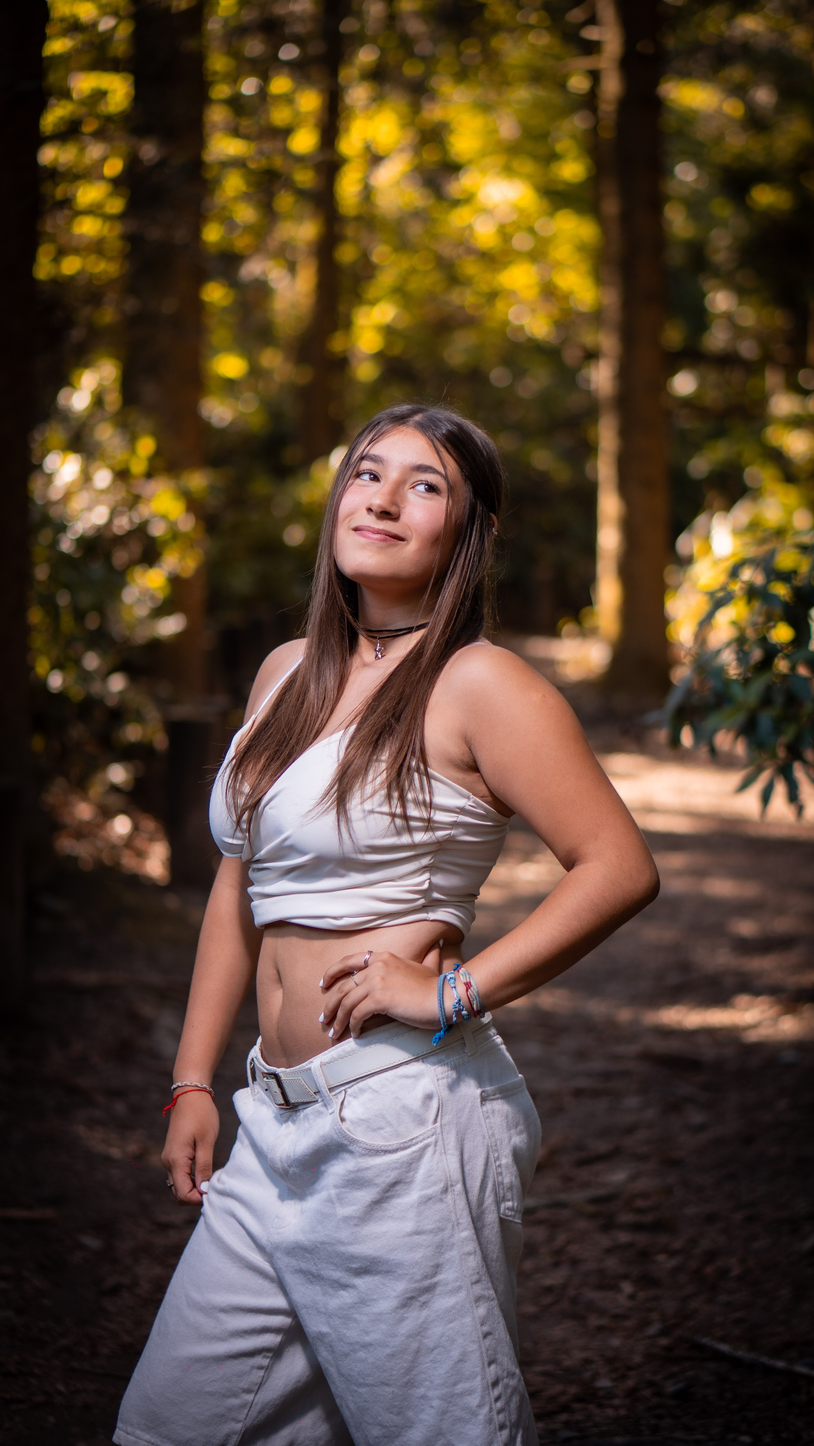
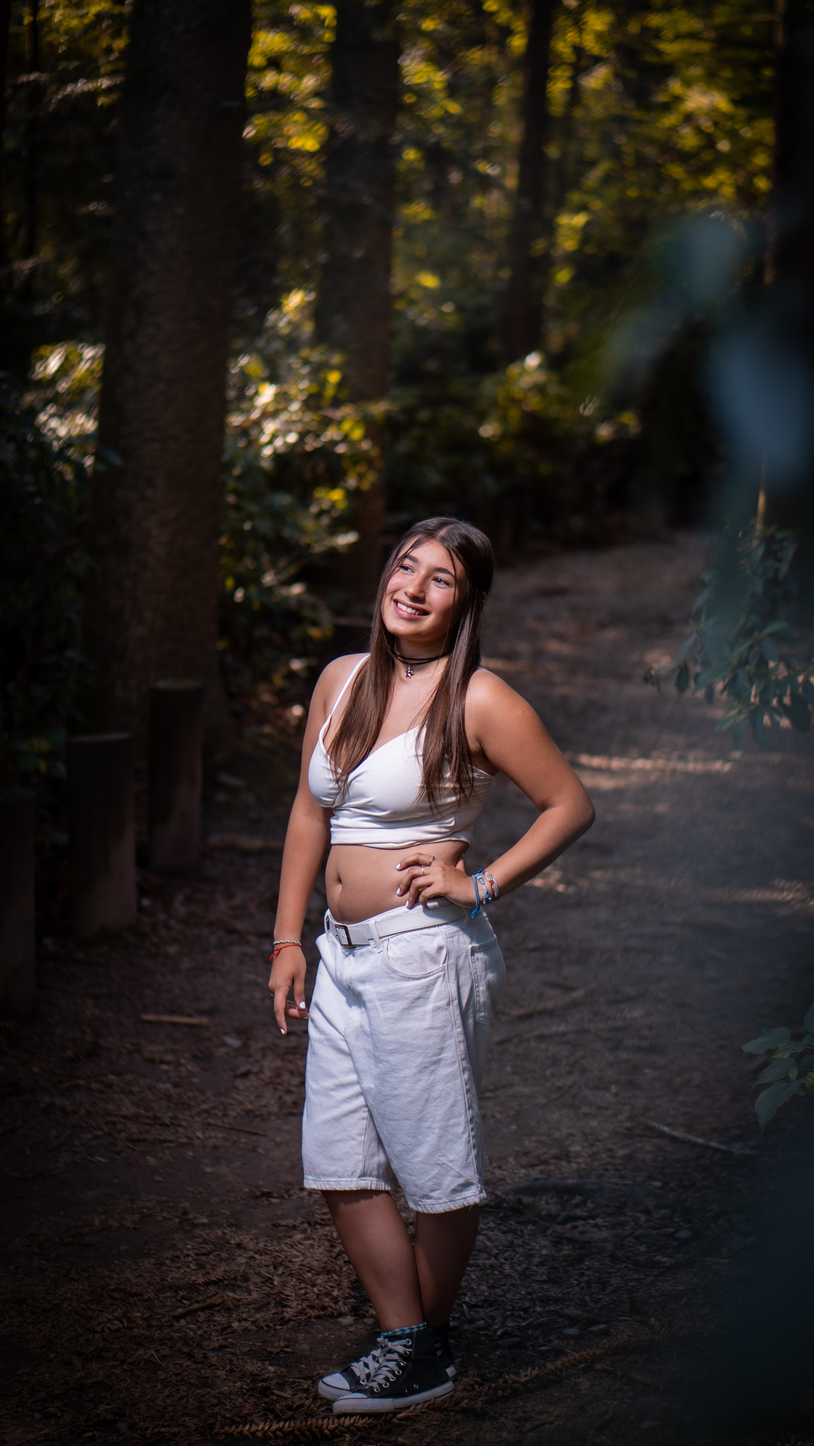
Agregué foto final e hice últimas modificaciones generales

diff --git a/index.html b/index.html
@@ -49,7 +49,7 @@
         <section class="tarjeta-portada">
         
          <figure class="marco-foto">
-                <img src="img/sesion10.jpg" alt="Foto de sesión de las Mellis en exteriores" class="foto-tarjeta">
+                <img src="img/sesion1.jpg" alt="Foto de sesión de las Mellis en exteriores" class="foto-tarjeta">
          </figure>
 
          <article class="info-tarjeta">
@@ -143,31 +143,19 @@
 
                     <li class="slide">
                         <figure>
-                            <img src="img/sesion20.jpg" alt="Sesión de fotos 2" loading="lazy">
+                            <img src="img/sesion3.jpg" alt="Sesión de fotos 2" loading="lazy">
                         </figure>
                     </li>
 
                     <li class="slide">
                         <figure>
-                            <img src="img/sesion5.jpg" alt="Sesión de fotos 3" loading="lazy">
+                            <img src="img/sesion4.jpg" alt="Sesión de fotos 3" loading="lazy">
                         </figure>
                     </li>
 
                     <li class="slide">
                         <figure>
-                            <img src="img/sesion18.jpg" alt="Sesión de fotos 4" loading="lazy">
-                        </figure>
-                    </li>
-
-                    <li class="slide">
-                        <figure>
-                            <img src="img/sesion8.jpg" alt="Sesión de fotos 4" loading="lazy">
-                        </figure>
-                    </li>
-
-                    <li class="slide">
-                        <figure>
-                            <img src="img/sesion14.jpg" alt="Sesión de fotos 4" loading="lazy">
+                            <img src="img/sesion5.jpg" alt="Sesión de fotos 4" loading="lazy">
                         </figure>
                     </li>
 
@@ -179,7 +167,19 @@
 
                     <li class="slide">
                         <figure>
-                            <img src="img/sesion20.jpg" alt="Sesión de fotos 4" loading="lazy">
+                            <img src="img/sesion7.jpg" alt="Sesión de fotos 4" loading="lazy">
+                        </figure>
+                    </li>
+
+                    <li class="slide">
+                        <figure>
+                            <img src="img/sesion8.jpg" alt="Sesión de fotos 4" loading="lazy">
+                        </figure>
+                    </li>
+
+                    <li class="slide">
+                        <figure>
+                            <img src="img/sesion9.jpg" alt="Sesión de fotos 4" loading="lazy">
                         </figure>
                     </li>
                 </ul>
@@ -191,9 +191,9 @@
             </article>
      </section>
 
-     <!----- secciones alternadas dresscode, link drive fotos, formulario de confirmación y link spotify ----->
+     <!----- secciones alternadas -----> 
      <section class="contenedor-info-vertical">
-
+            <!----- dresscode ----->
             <article class="bloque-info estilo-oscuro">
                 <div class="icono-animado-container">
                     <i class="fas fa-user-tie icono-swing color-blanco"></i>
@@ -204,6 +204,7 @@
                 <p class="nota-dresscode">EL COLOR <strong>BLANCO</strong> SE RESERVA <br> PARA LAS QUINCEAÑERAS</p>
             </article>
 
+            <!----- link drive fotos ----->
             <article class="bloque-info estilo-claro">
                 <div class="icono-animado-container">
                     <i class="fas fa-camera icono-flash color-verde"></i>
@@ -216,6 +217,7 @@
                 </a>
             </article>
 
+            <!----- formulario de confirmación ----->
             <article class="bloque-info estilo-oscuro">
                 <div class="icono-animado-container">
                     <i class="fas fa-envelope-open-text icono-bouncing color-blanco"></i>
@@ -257,6 +259,7 @@
 
             </article>
 
+            <!----- link spotify ----->
             <article class="bloque-info estilo-claro">
         
                 <div class="icono-animado-container">
@@ -275,9 +278,9 @@
             </article>
      </section>
 
-     <!----- algo con imagenes  ----->
-     <section class="">
-
+     <!----- ultima imagen  ----->
+     <section class="seccion-imagen">
+        <figure><img src="img/sesion10.jpg" alt=""></figure>
      </section>
 
      <!----- seccion "te esperamos"  ----->
@@ -291,7 +294,7 @@
     
      <!----- franja de color final  ----->
      <footer class="footer-simple">
-           <p>XV Años | 20.03.2025</p>
+           <p>XV Años | 20.03.2026</p>
      </footer>
 
     </main>

diff --git a/css/estilo1.css b/css/estilo1.css
@@ -45,7 +45,7 @@
 #seccion-primera-pagina{
     text-align: center;
     font-family: var(--fuente-principal);
-    color: var(--color-principal-claro);
+    color: var(--color-principal-oscuro);
     opacity: 0; 
     /* Nombre | Duración | Curva | Mantener final */
     animation: subirAparecer 1s ease-out forwards;
@@ -72,13 +72,16 @@
     letter-spacing: 1px;       
     text-decoration: none;
     border-radius: 50px;
+    font-size: 1em;
 
-    padding: 0.7em;
-    margin-top: 0.7em;
+    padding: 0.8em;
+    padding-left: 3em;
+    padding-right: 3em;
+    margin-top: 1em;
 
     display: inline-block; 
     cursor: pointer;           /* Manito al pasar el mouse */
-    box-shadow: 0 4px 15px rgba(32, 108, 148, 0.4);
+    box-shadow: 0 4px 15px rgba(127, 151, 110, 0.4);
     transition: all 0.3s ease;
 }
 
@@ -121,14 +124,14 @@
 }
 
 .estilo-boton-float {
-    width: 50px;
-    height: 50px;
+    width: 65px;
+    height: 65px;
     border-radius: 50%;
     background-color: var(--color-principal-oscuro);
     color: white;
     border: none;
-    box-shadow: 0 4px 10px rgba(0,0,0,0.3);
-    font-size: 20px;
+    box-shadow: 0 4px 10px rgba(0,0,0,0.5) !important;
+    font-size: 28px;
     cursor: pointer;
     display: flex;
     justify-content: center;
@@ -651,11 +654,27 @@
     80% { transform: rotate(-5deg); }
     100% { transform: rotate(0deg); }
 }
-/* (La animación 'rebote' para el mail ya la tenías definida antes, así que se reutiliza sola) */
 
 
-/* --- ESTILOS DEL FORMULARIO INTEGRADO --- */
+/* --- RESPONSIVE PC (Ajustes de espacio) --- */
+@media (min-width: 1000px) {
+    .contenedor-info-vertical .bloque-info {
+        padding: 100px 0; /* Más aire arriba y abajo en PC */
+    }
+    
+    .contenedor-info-vertical{
+        /* Eje-X | Eje-Y | Difuminado | Color con 30% de opacidad */
+        box-shadow: 0px -5px 15px rgba(0, 0, 0, 0.3);
+    }
 
+    .texto-detalle {
+        font-size: 1.2rem;
+    }
+}
+
+
+
+/* ------------------------------ formulario de confirmación ------------------------------ */
 .formulario-rsvp {
     width: 100%;
     max-width: 500px; /* Ancho máximo elegante */
@@ -719,39 +738,16 @@
     padding: 15px;
 }
 
-/* --- RESPONSIVE PC (Ajustes de espacio) --- */
-@media (min-width: 1024px) {
-    .contenedor-info-vertical .bloque-info {
-        padding: 100px 0; /* Más aire arriba y abajo en PC */
-    }
-    
-    .texto-detalle {
-        font-size: 1.2rem;
-    }
+
+
+
+/* ------------------------------ ultima imagen ------------------------------ */
+.seccion-imagen img {
+    width: 100%; 
+    height: 60vh; 
+    object-fit: cover;
+    display: block;
 }
-
-
-
-
-
-@media (min-width: 1000px){
-    .contenedor-info-vertical{
-        /* Eje-X | Eje-Y | Difuminado | Color con 30% de opacidad */
-        box-shadow: 0px -5px 15px rgba(0, 0, 0, 0.3);
-    }
-}
-
-
-
-/* ------------------------------ formulario de confirmación ------------------------------ */
-
-
-
-
-
-/* ------------------------------ algo con imagenes ------------------------------ */
-
-
 
 
 
@@ -766,13 +762,14 @@
     font-family: var(--fuente-principal);
     font-size: 2rem;
     letter-spacing: 5px;
-    margin-bottom: 30px;
+    margin-bottom: 10px;
     color: var(--color-principal-oscuro);
-    font-weight: 300;
+    font-weight: 500;
 }
 
 /* --- ANIMACIÓN DE LATIDO REAL --- */
-/* Esta clase define el tamaño y aplica la animación */
+
+/*- Esta clase define el tamaño y aplica la animación */
 .icono-latido {
     font-size: 4rem; /* Tamaño grande pero elegante */
     display: inline-block;
@@ -780,7 +777,7 @@
     animation: latidoReal 1.3s ease-in-out infinite;
 }
 
-/* Definición de los "keyframes" para el ritmo tup-tup... */
+/*- Definición de los "keyframes"*/
 @keyframes latidoReal {
     0% { transform: scale(1); }
     14% { transform: scale(1.15); } /* Primer latido fuerte */
@@ -795,10 +792,11 @@
 
 /* ------------------------------ franja de color final ------------------------------ */
 .footer-simple {
-    background-color: var(--color-principal-oscuro); /* Tu verde #7f976e */
-    height: 60px; /* Altura fija para la franja */
+    background-color: var(--color-principal-oscuro);
+    height: 60px; /* Altura de la franja */
     width: 100%;
-    /* Si decides poner texto, esto lo centra: */
+
+    /* Atributos texto */
     display: flex;
     justify-content: center;
     align-items: center;
